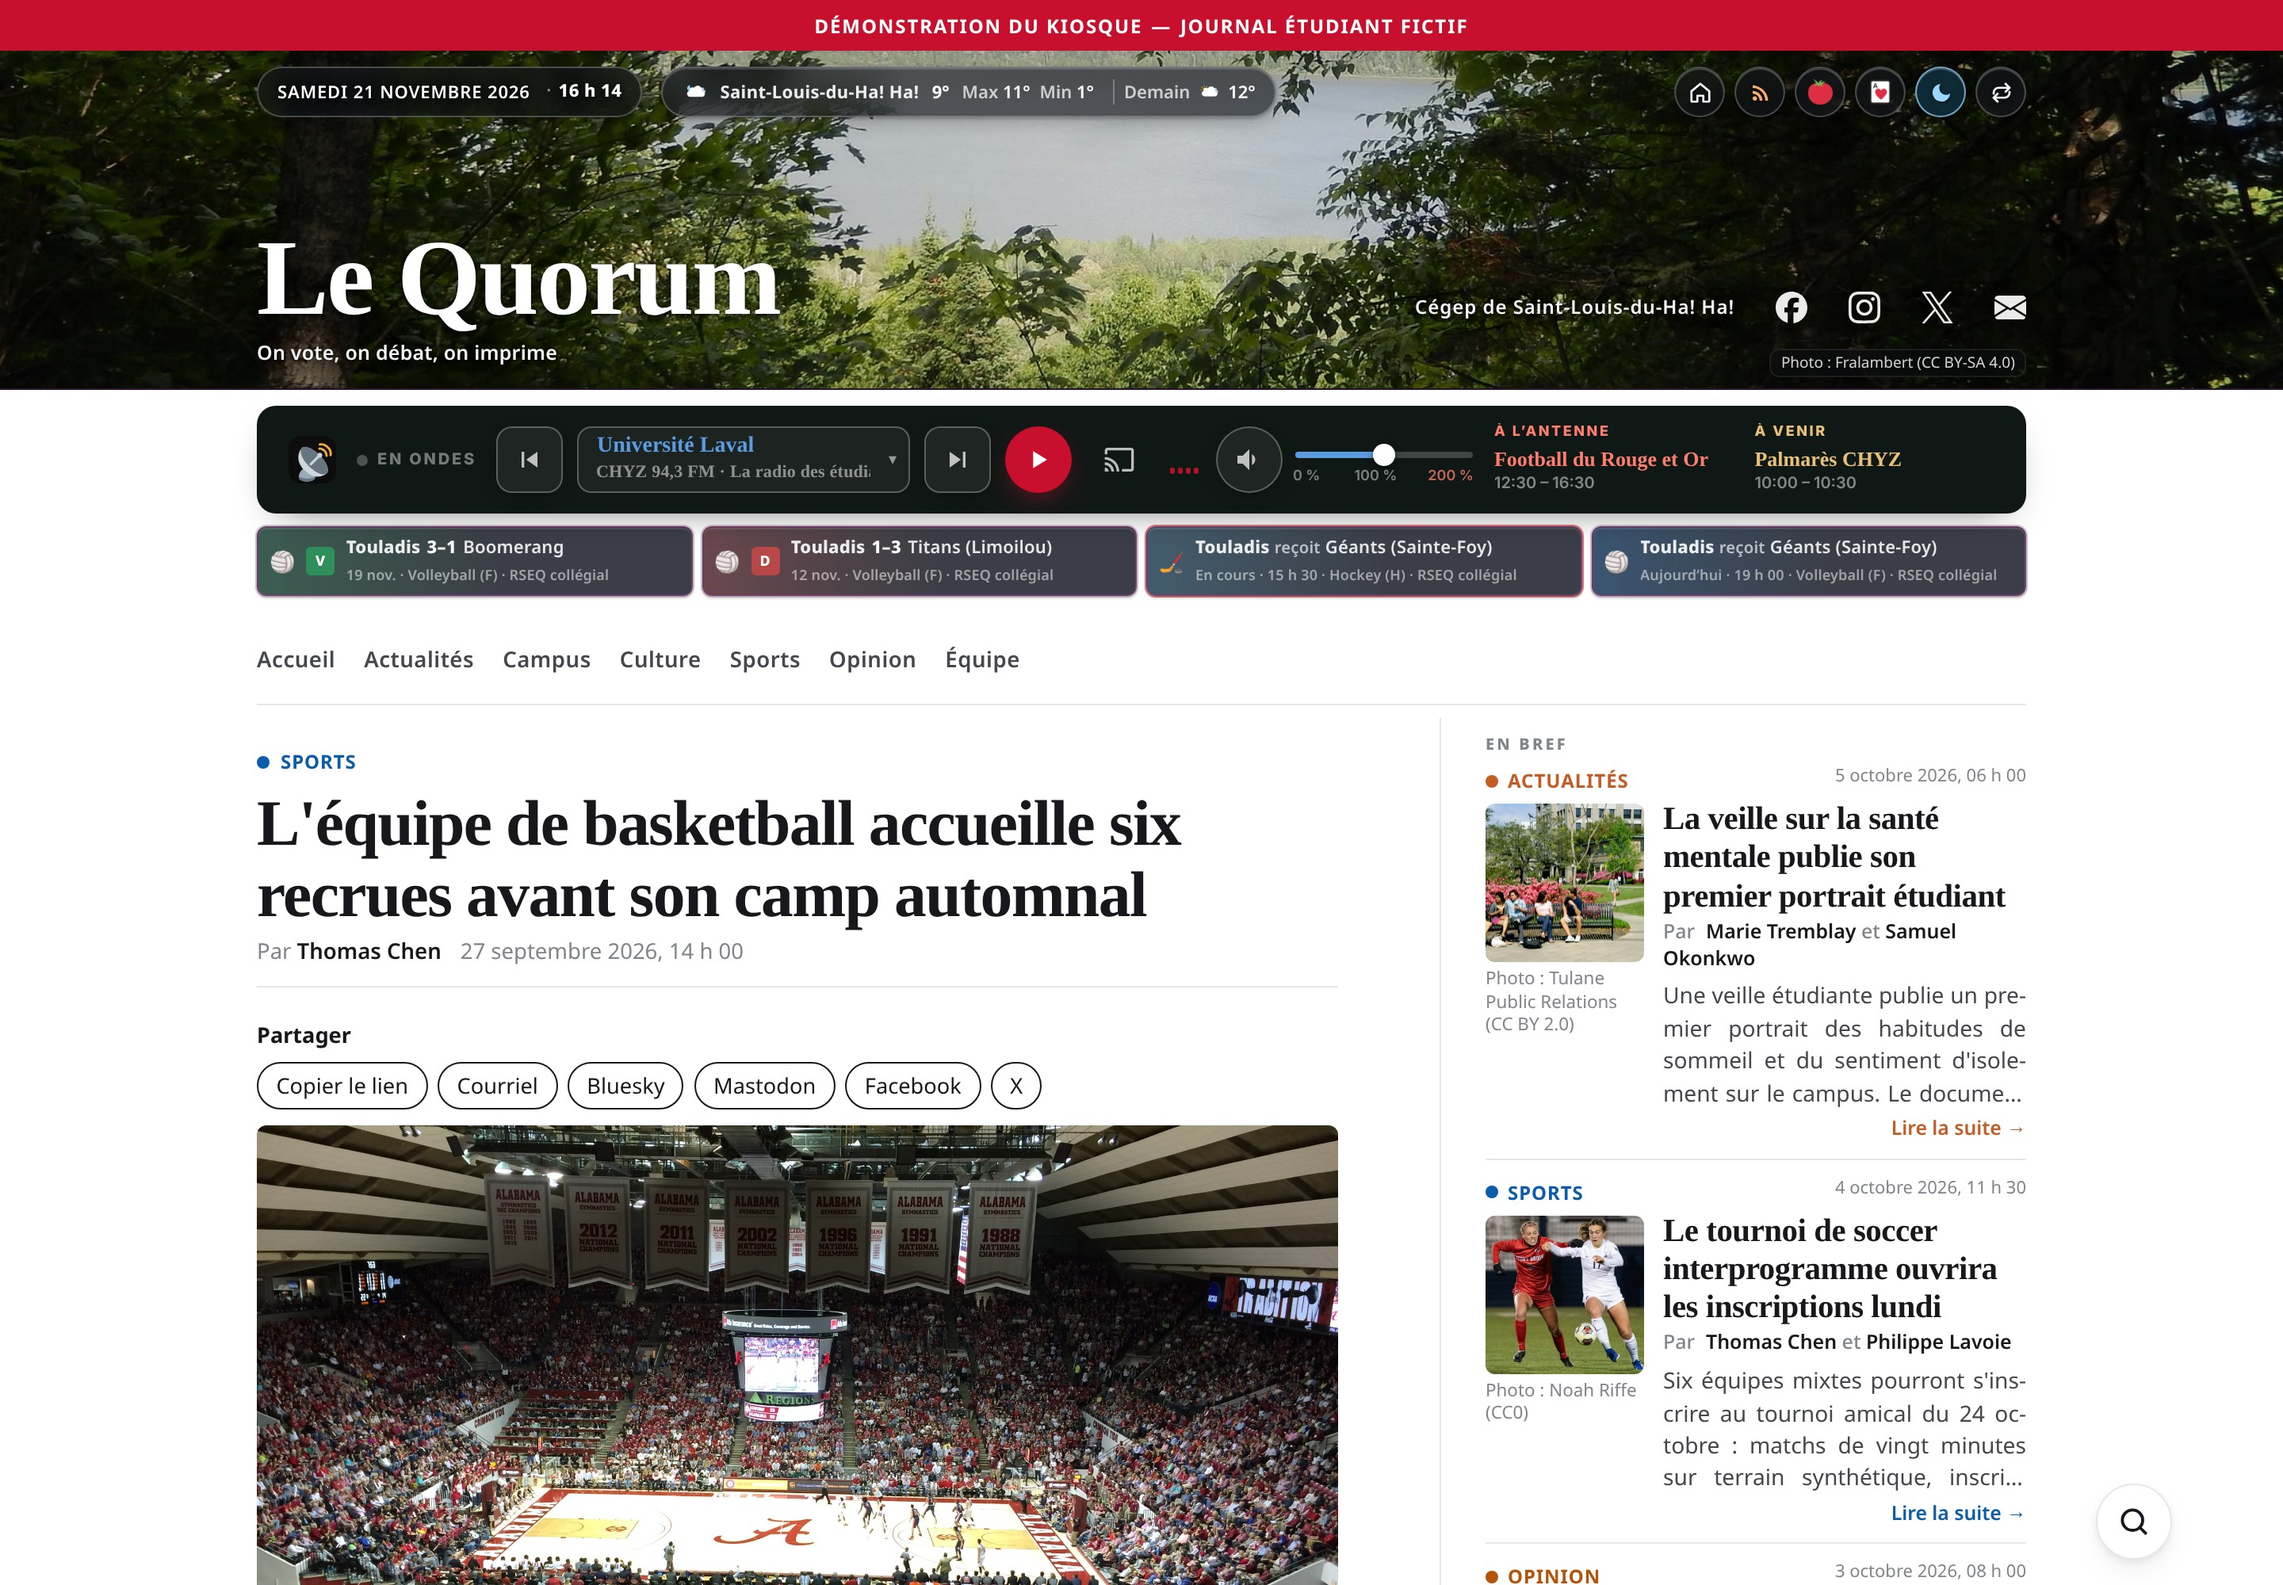
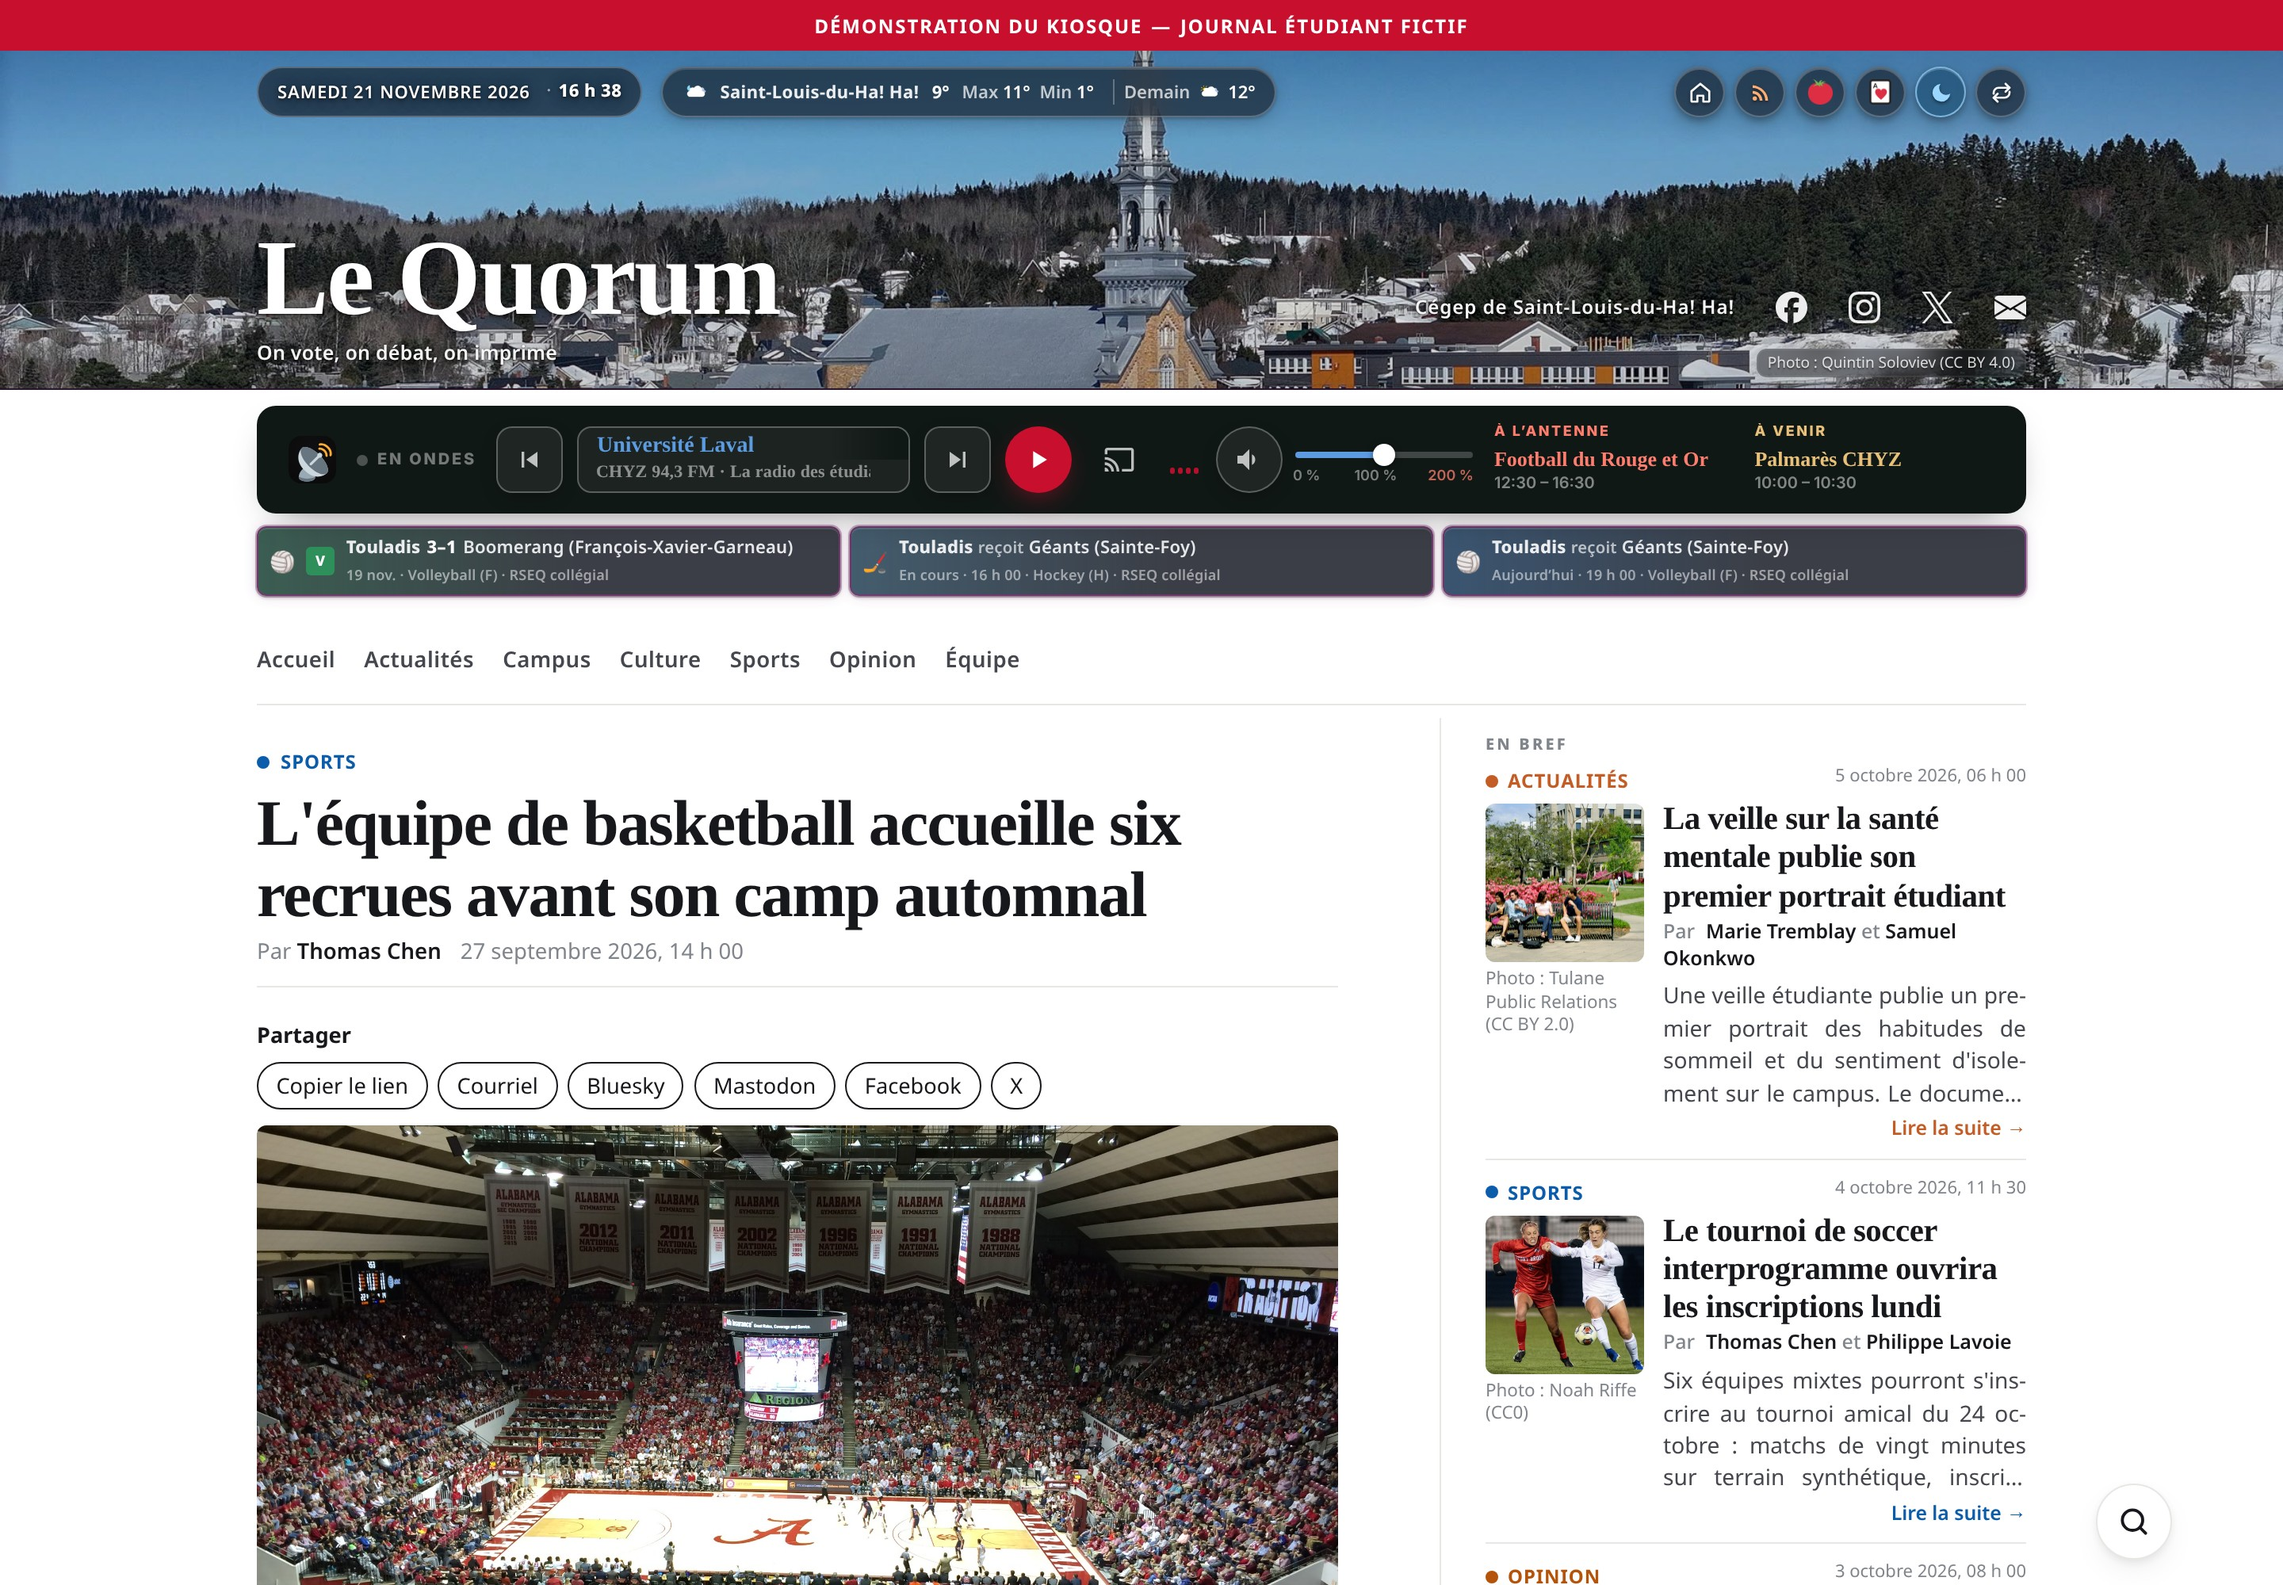
Mobile : 3 cartes sport à l’ordinateur, coupe radio adoucie
Le nombre de cartes du bandeau sport est plafonné dans
sportsBoardCountFromWidth : 1 au téléphone, 2 à la tablette, 3 à
l’ordinateur. Les cartes s’élargissent pour remplir la rangée.

La barre radio de LE-RADAR coupe encore les titres nets pendant le
défilement ; le Kiosque ajoute un dégradé dans le Shadow DOM ouvert.

Cibles tactiles des réseaux en tête portées à 44 px. Pied : plus de
virgule orpheline après « Le Kiosque ». Tests d’overflow mobile étendus.

Changed region(s): [[0.0, 0.031, 1.0, 0.248], [0.25, 0.31, 0.875, 0.403]]

diff --git a/packages/theme-radar/assets/kiosque.js b/packages/theme-radar/assets/kiosque.js
@@ -1533,7 +1533,7 @@
       return lib.sportsBoardCountFromWidth(avail, { desktop: sportsIsDesktopLabel() });
     }
     if (!sportsIsDesktopLabel()) return 1;
-    var minSlot = 240, gap = 6, maxN = avail >= 1100 ? 5 : 4;
+    var minSlot = 240, gap = 6, maxN = avail >= 900 ? 3 : 2;
     var n = 1;
     for (var tryN = maxN; tryN >= 2; tryN -= 1) {
       if (avail >= tryN * minSlot + gap * (tryN - 1)) { n = tryN; break; }
@@ -3188,9 +3188,58 @@
     }
   }
 
+
+  /**
+   * La barre radio vient de LE-RADAR (Shadow DOM ouvert). Les titres longs
+   * défilent (marquee), mais le module coupe le texte net (text-overflow: clip)
+   * avant et pendant le défilement. Un masque à droite, ajouté ici, adoucit
+   * la coupe sans copier le module ni dépasser le bord de la barre.
+   */
+  function softenRadarRadioMarquee(slot) {
+    var host = (slot || document.querySelector('.radar-radio-slot')) &&
+      (slot || document.querySelector('.radar-radio-slot')).querySelector('.radar-radio');
+    var root = host && host.shadowRoot;
+    if (!root || root.getElementById('kiosque-radio-marquee-mask')) return;
+    var style = document.createElement('style');
+    style.id = 'kiosque-radio-marquee-mask';
+    style.textContent = [
+      '.now { position: relative; }',
+      '.now:has(.is-marquee)::after {',
+      '  content: ""; position: absolute; top: 0; right: 0; bottom: 0; width: 48px;',
+      '  pointer-events: none; z-index: 2;',
+      '  background: linear-gradient(to right, rgba(16,24,22,0), #101816 85%);',
+      '}',
+      '@container (max-width: 679px) {',
+      '  .now:has(.is-marquee)::after {',
+      '    width: 32px;',
+      '    background: linear-gradient(to right, rgba(37,40,48,0), #252830 85%);',
+      '  }',
+      '}',
+      '.air:has(.is-marquee) { position: relative; }',
+      '.air:has(.is-marquee)::after {',
+      '  content: ""; position: absolute; top: 0; right: 0; bottom: 0; width: 24px;',
+      '  pointer-events: none; z-index: 2;',
+      '  background: linear-gradient(to right, rgba(16,24,22,0), #101816 85%);',
+      '}',
+    ].join('');
+    root.appendChild(style);
+  }
+
+  function initRadarRadioMarqueeMask() {
+    var slot = document.querySelector('.radar-radio-slot');
+    if (!slot) return;
+    function apply() { softenRadarRadioMarquee(slot); }
+    apply();
+    if (typeof MutationObserver === 'function' && !initRadarRadioMarqueeMask._obs) {
+      initRadarRadioMarqueeMask._obs = new MutationObserver(apply);
+      initRadarRadioMarqueeMask._obs.observe(slot, { childList: true, subtree: true, attributes: true, attributeFilter: ['data-radar-radio'] });
+    }
+  }
+
   function init() {
     initTheme();
     initDemoBannerStickyOffset();
+    initRadarRadioMarqueeMask();
     initMastheadClock();
     initMastheadBackgrounds();
     initMastheadSports();

diff --git a/tests/navigateur/mise-en-page.spec.js b/tests/navigateur/mise-en-page.spec.js
@@ -212,3 +212,42 @@ test('pendant le chargement de LE-RADAR, la place de la barre est réservée', a
     await ctx.close();
   }
 });
+
+/**
+ * Accueil, article, recherche et pied : aucune vue mobile ne déborde
+ * horizontalement (360–430 px, et tablette 768 px), en clair et en sombre.
+ */
+const vuesMobiles = [360, 390, 412, 430, 768];
+for (const theme of ['light', 'dark']) for (const largeur of vuesMobiles) {
+  test(`pas de défilement horizontal à ${largeur} px (${theme}) : accueil, article, recherche`, async ({ browser }) => {
+    const ctx = await browser.newContext({
+      viewport: { width: largeur, height: 900 },
+      colorScheme: theme,
+      isMobile: largeur < 768,
+      hasTouch: true,
+    });
+    await fauxRadar(ctx);
+    const page = await ctx.newPage();
+    const pages = ['/autre-nom/demo/', '/autre-nom/demo/articles/basketball-equipe-recrues/', '/autre-nom/demo/recherche/'];
+    for (const url of pages) {
+      await page.goto(url);
+      await page.waitForTimeout(800);
+      const accueil = await page.evaluate(() => document.documentElement.scrollWidth - window.innerWidth);
+      expect(accueil, `débordement à l’arrivée sur ${url}`).toBeLessThanOrEqual(1);
+      await page.evaluate(() => window.scrollTo(0, document.body.scrollHeight));
+      await page.waitForTimeout(200);
+      const pied = await page.evaluate(() => document.documentElement.scrollWidth - window.innerWidth);
+      expect(pied, `débordement au pied de ${url}`).toBeLessThanOrEqual(1);
+    }
+    await page.goto('/autre-nom/demo/');
+    await page.waitForTimeout(400);
+    const loupe = page.locator('#news-search-toggle');
+    if (await loupe.count()) {
+      await loupe.click();
+      await page.waitForTimeout(300);
+      const ouvert = await page.evaluate(() => document.documentElement.scrollWidth - window.innerWidth);
+      expect(ouvert, 'débordement avec la recherche ouverte').toBeLessThanOrEqual(1);
+    }
+    await ctx.close();
+  });
+}

diff --git a/tests/sports-board.test.ts b/tests/sports-board.test.ts
@@ -21,13 +21,18 @@ const lib = sandbox.module.exports as {
   sportsWaveStaggered: (events: Array<{ at: number }>) => boolean;
 };
 
-test('nombre de cartes selon la largeur : pas de case vide, plus que 3 à 1280 px', () => {
+test('nombre de cartes selon la largeur : 1 au téléphone, 2 à la tablette, 3 à l’ordinateur', () => {
   assert.equal(lib.sportsBoardCountFromWidth(390, { desktop: false }), 1);
-  const at1280 = lib.sportsBoardCountFromWidth(1152, { desktop: true });
-  assert.ok(at1280 >= 4, `1280 px → ${at1280}`);
+  assert.equal(lib.sportsBoardCountFromWidth(700, { desktop: true }), 1);
+  assert.equal(lib.sportsBoardCountFromWidth(720, { desktop: true }), 2);
+  assert.equal(lib.sportsBoardCountFromWidth(768, { desktop: true }), 2);
+  assert.equal(lib.sportsBoardCountFromWidth(899, { desktop: true }), 2);
+  assert.equal(lib.sportsBoardCountFromWidth(900, { desktop: true }), 3);
+  assert.equal(lib.sportsBoardCountFromWidth(1152, { desktop: true }), 3);
+  assert.equal(lib.sportsBoardCountFromWidth(1920, { desktop: true }), 3);
   const need = (n: number) => n * lib.SPORTS_MIN_SLOT_PX + lib.SPORTS_GAP_PX * (n - 1);
-  assert.ok(1152 >= need(at1280));
-  assert.ok(1152 < need(at1280 + 1) || at1280 >= 5);
+  assert.ok(1152 >= need(3));
+  assert.ok(720 < need(3));
 });
 
 function slide(key: string, mode: 'live' | 'result' | 'next', sport: string) {

diff --git a/packages/theme-radar/assets/theme.css b/packages/theme-radar/assets/theme.css
@@ -3667,7 +3667,10 @@ html {
   .site-foot__nav .site-foot__sep,
   .site-foot__links .site-foot__sep,
   .site-foot__built .site-foot__sep { display: none; }
-  .site-foot__nav, .site-foot__links, .site-foot__built { display: flex; flex-wrap: wrap; gap: 4px 18px; }
+  .site-foot__nav, .site-foot__links { display: flex; flex-wrap: wrap; gap: 4px 18px; }
+  /* Phrase « Propulsé par Le Kiosque, … » en flux normal : un flex ici
+     isolait la virgule en tête de ligne après le lien. */
+  .share__btn { min-height: 44px; padding-top: 0.55rem; padding-bottom: 0.55rem; }
   .site-foot { padding-bottom: 88px; }
 }
 
@@ -3824,7 +3827,7 @@ html {
 @media (max-width: 640px) {
   .masthead-meta { flex-wrap: wrap; }
   .masthead-social { flex-wrap: nowrap; width: calc(100% + 16px); margin-left: -8px; margin-right: -8px; gap: 0; }
-  .masthead-social a { flex: 1 1 0; min-width: 28px; max-width: 44px; height: 40px; }
+  .masthead-social a { flex: 1 1 0; min-width: 44px; max-width: 44px; height: 44px; }
 }
 @media print { .social-links { display: none !important; } }
 

diff --git a/packages/theme-radar/assets/sports-board-lib.js b/packages/theme-radar/assets/sports-board-lib.js
@@ -24,12 +24,12 @@
     var minSlot = options.minSlot || SPORTS_MIN_SLOT_PX;
     var gap = options.gap == null ? SPORTS_GAP_PX : options.gap;
     var width = Math.max(0, avail | 0);
-    var maxN = 4;
-    if (width >= 1700) maxN = 7;
-    else if (width >= 1400) maxN = 6;
-    else if (width >= 1100) maxN = 5;
-    else if (width >= 720) maxN = 4;
-    else return 1;
+    // 1 au téléphone, 2 à la tablette (rangée d’environ 720 px),
+    // 3 à l’ordinateur. Les cartes s’élargissent pour remplir la rangée.
+    var maxN = 3;
+    if (width < 720) return 1;
+    // Tablette (~768 px) : 3 cartes descendent sous 240 px et coupent les lignes.
+    if (width < 900) maxN = 2;
     if (options.maxN) maxN = Math.min(maxN, options.maxN);
     var n = 1;
     for (var tryN = maxN; tryN >= 2; tryN -= 1) {

diff --git a/tests/navigateur/sports-vague.spec.js b/tests/navigateur/sports-vague.spec.js
@@ -41,7 +41,7 @@ test('bandeau sports à 1280 px : plusieurs cartes, aucune case vide', async ({ 
   });
   expect(info).toBeTruthy();
   expect(info.hidden).toBeFalsy();
-  expect(info.count).toBeGreaterThanOrEqual(4);
+  expect(info.count).toBe(3);
   expect(info.count).toBe(info.expected);
   expect(info.empty).toBe(0);
   info.widths.forEach((w) => expect(w).toBeGreaterThan(80));
